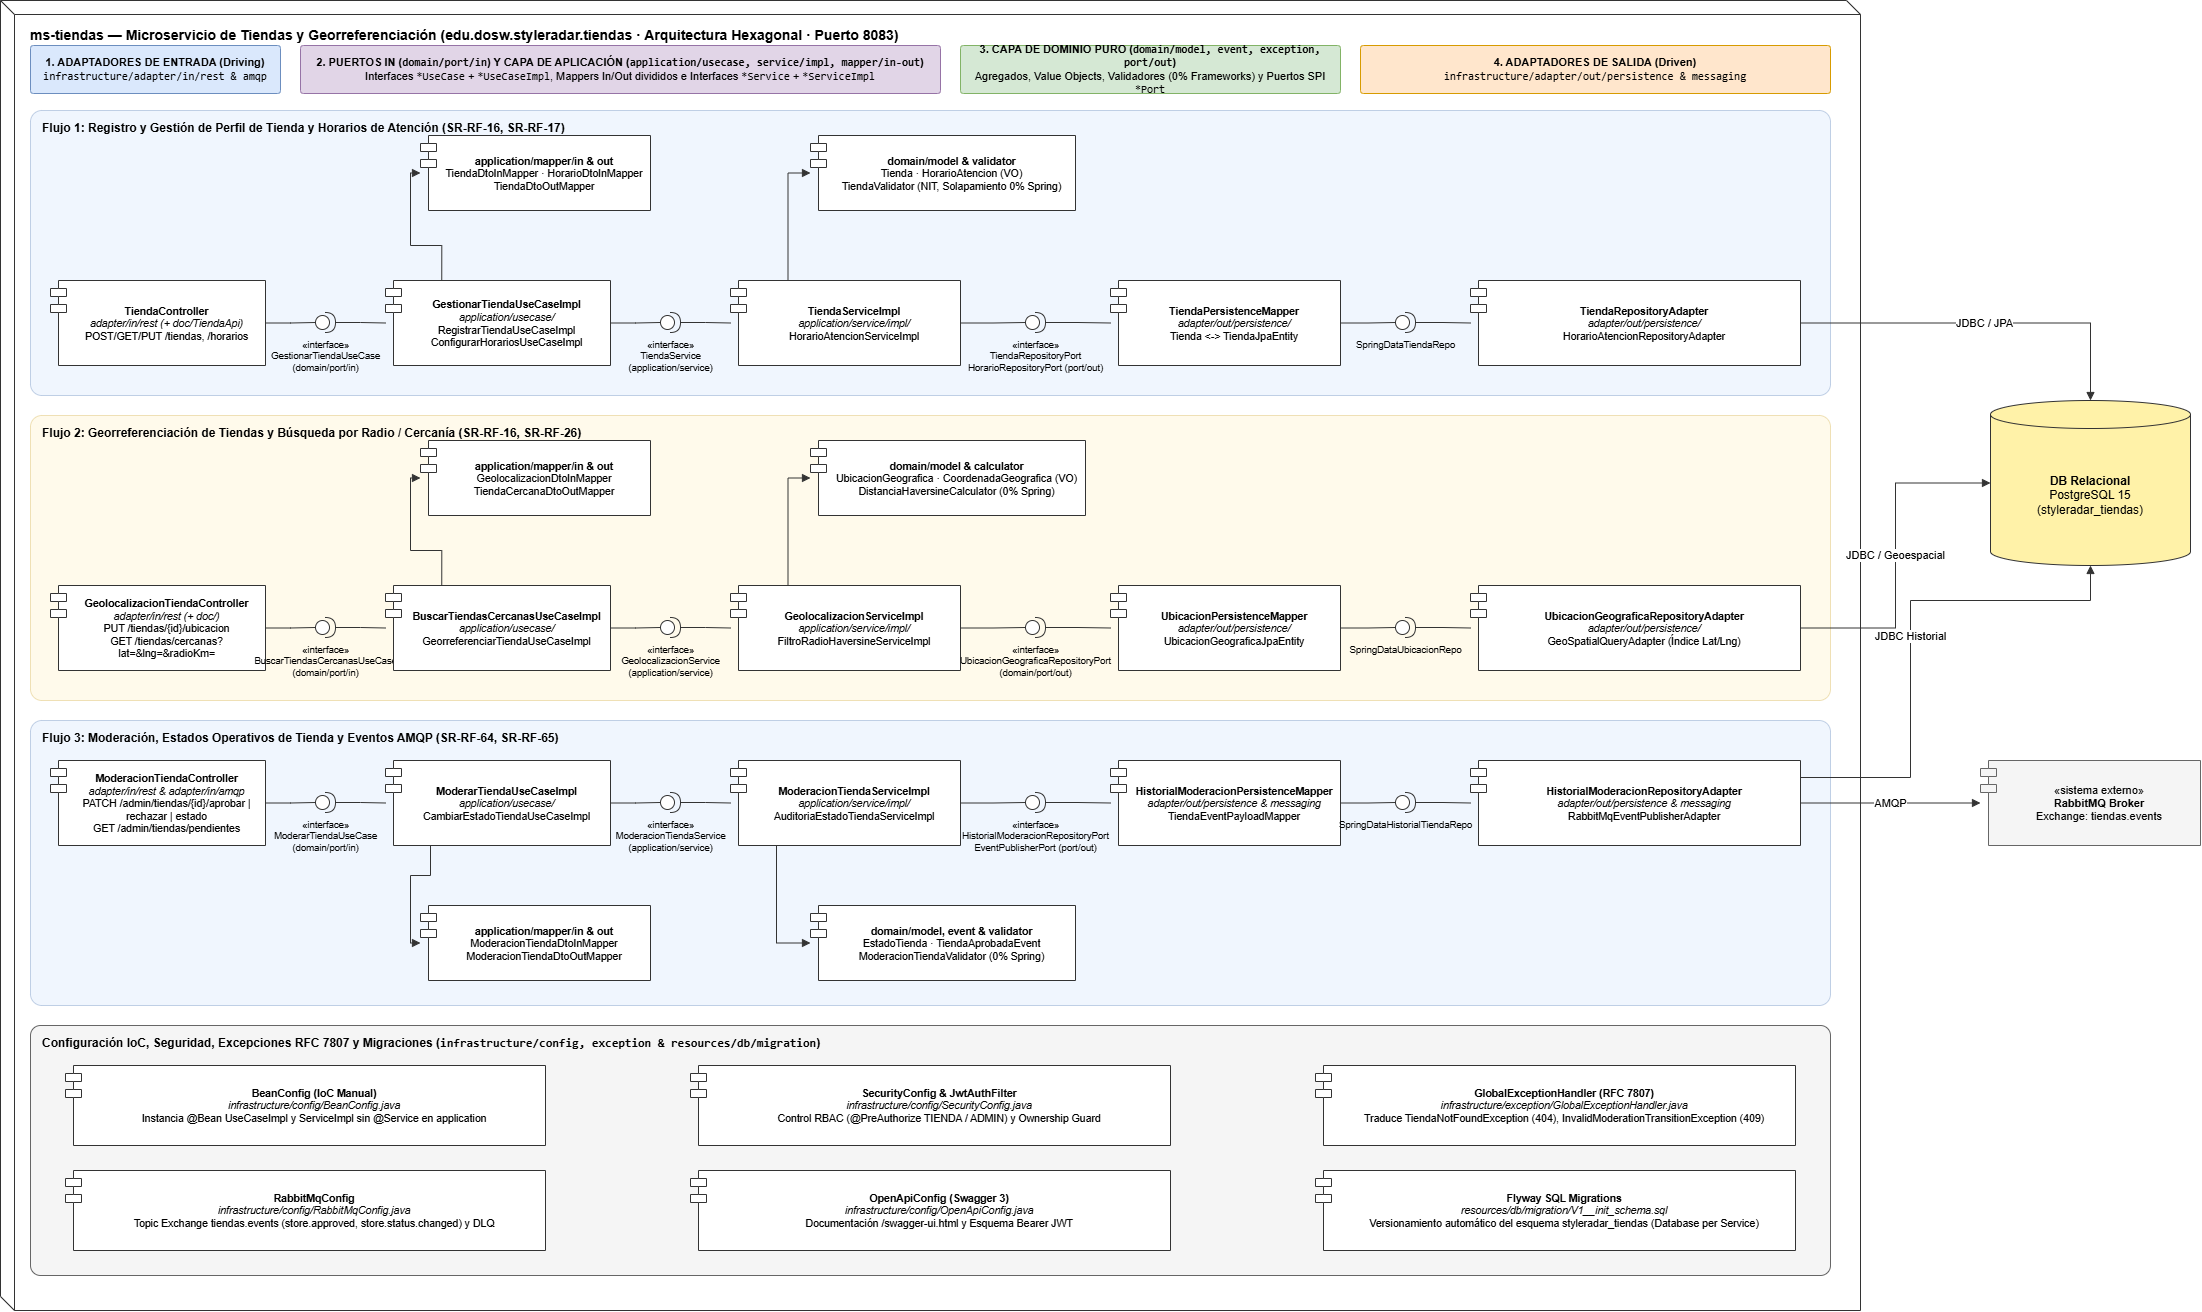
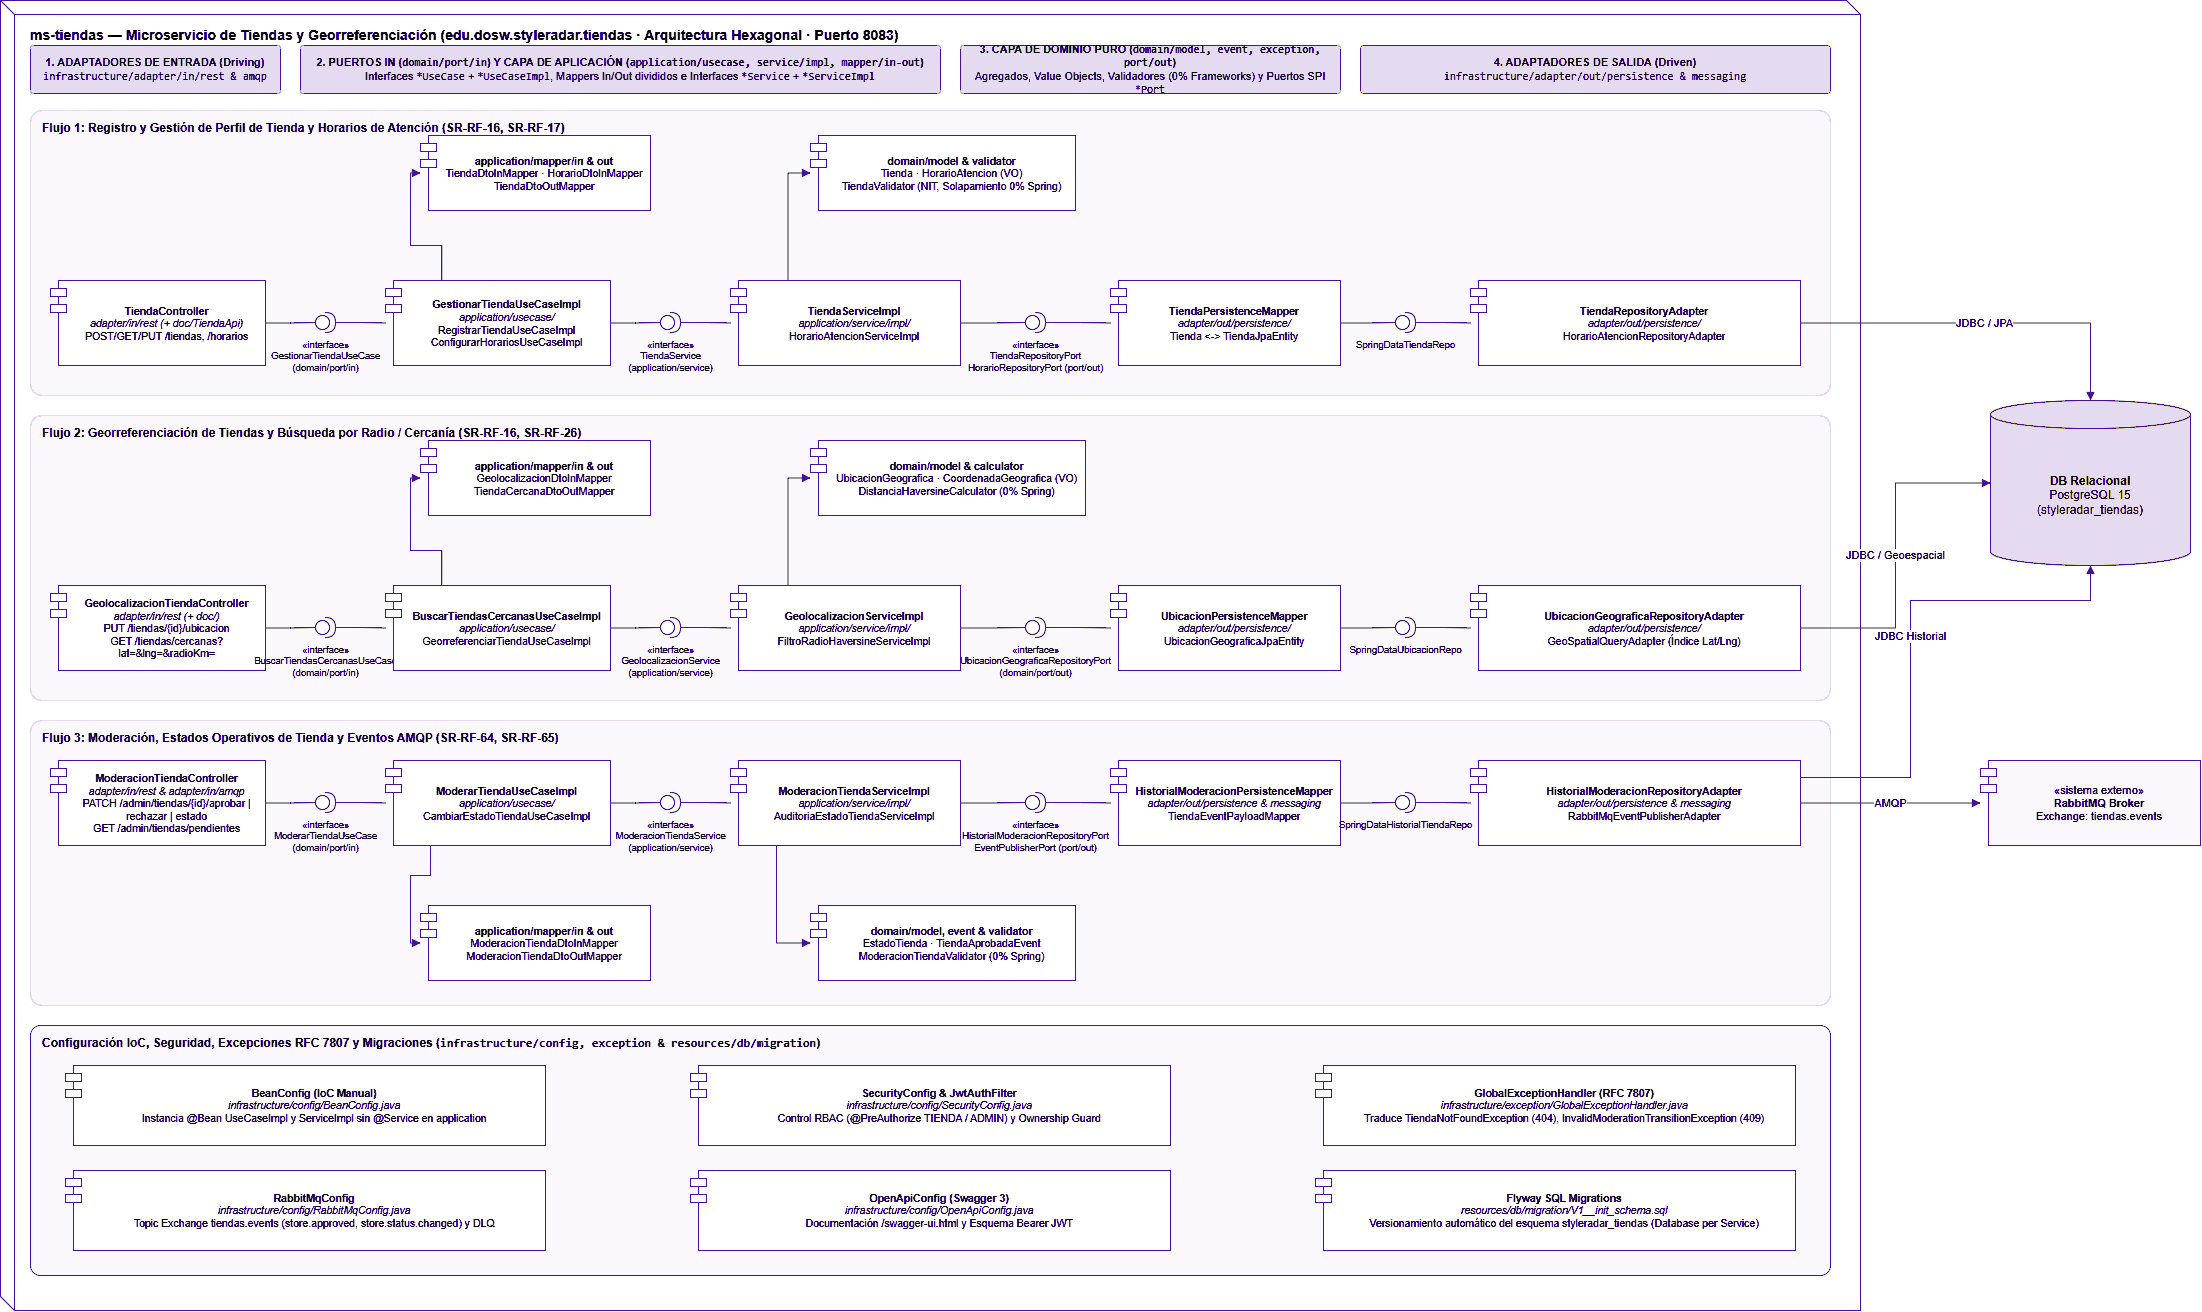
docs(uml): actualizar DiagramaComponentesEspecifico a hexagonal real y paleta EstiloDiagramas

diff --git a/README.md b/README.md
@@ -337,38 +337,68 @@ El microservicio `ms-tiendas` se apoya exclusivamente en un modelo relacional ro
 
 <div align="center">
   <img src="docs/uml/DiagramaComponentesEspecifico.png" width="95%" alt="Diagrama de Componentes Específico ms-tiendas" /><br />
-  <sub>Figura 7.3: Diagrama de componentes específico en arquitectura hexagonal para ms-tiendas (Draw.io editable en <a href="docs/uml/DiagramaComponentesEspecifico.drawio"><code>docs/uml/DiagramaComponentesEspecifico.drawio</code></a>).</sub>
+  <sub>Figura 7.3: Diagrama de componentes específico en arquitectura hexagonal pura para ms-tiendas bajo el estándar corporativo <code>EstiloDiagramas.xml</code> (Draw.io editable en <a href="docs/uml/DiagramaComponentesEspecifico.drawio"><code>docs/uml/DiagramaComponentesEspecifico.drawio</code></a>).</sub>
 </div>
 
 ##### Justificación del Enfoque Hexagonal (Puertos y Adaptadores)
-`ms-tiendas` sigue de forma irrestricta la separación por capas hexagonal:
-- **Aislamiento de Lógica Geoespacial**: Las fórmulas de distancia y validaciones de solapamiento de horarios residen en `domain/model/` y `domain/validator/`. Ninguna fórmula matemática ni lógica de negocio depende de PostGIS ni de repositorios SQL.
-- **Independencia de Frameworks en Aplicación**: Los casos de uso (`*UseCaseImpl`) y servicios de aplicación (`*ServiceImpl`) se cablean mediante inyección manual en `BeanConfig.java`, garantizando portabilidad absoluta y tests unitarios ultra-rápidos.
-- **Event-Driven Integration**: Las decisiones de moderación aprobadas disparan eventos asíncronos hacia RabbitMQ para notificar a los microservicios de catálogos y compras sin acoplamiento temporal ni llamadas REST síncronas bloqueantes.
+`ms-tiendas` implementa de forma estricta los principios de **Arquitectura Hexagonal (Puertos y Adaptadores)** y **Domain-Driven Design (DDD)** sobre lo que realmente se codificó en el repositorio:
+- **Inversión de Control Manual (0% Spring en Dominio y Casos de Uso)**: Los 9 casos de uso (`*UseCaseImpl`) implementan interfaces de puerto de entrada (`domain/port/in/`) y se cablean explícitamente mediante métodos `@Bean` en `BeanConfig.java`. No existe ninguna anotación `@Service` ni acoplamiento a frameworks en el núcleo de la aplicación.
+- **Aislamiento de Persistencia Relacional y Almacenamiento**: Las operaciones sobre PostgreSQL 16 (`AlmacenRepositoryPort`, `FundacionRepositoryPort`) y Azure Blob Storage (`AlmacenamientoBlobPort`) están desacopladas a través de puertos de salida (`domain/port/out/`).
+- **Seguridad BOLA/IDOR Integrada en la Capa REST**: El control de acceso valida que el identificador `usuarioId` firmado en el JWT coincida con el vínculo registrado para dicho NIT en `administradores_almacenes`, rechazando con `403 Forbidden` cualquier intento de mutación no autorizada (SR-RNF-01).
+- **Event-Driven Architecture Asíncrona**: La desactivación de fundaciones y transiciones de verificación publican eventos estructurados hacia RabbitMQ (`styleradar.fundaciones.exchange`), desacoplando temporalmente el flujo de `ms-segunda-vida-donaciones` y `ms-catalogo`.
 
-##### Explicación Detallada de los Flujos de Componentes
-1. **Flujo 1: Registro y Gestión de Perfil de Tienda y Horarios (SR-RF-16, SR-RF-17)**:
-   - **Entrada (Driving)**: `TiendaController` (`adapter/in/rest/`) implementa `TiendaApi` y gestiona las solicitudes de registro de comercio y horarios.
-   - **Puerto In y Aplicación**: Conexión a `GestionarTiendaUseCase` ejecutado por `GestionarTiendaUseCaseImpl`, apoyado en `TiendaDtoInMapper`, `HorarioDtoInMapper` y `TiendaDtoOutMapper`.
-   - **Servicio y Dominio**: `TiendaServiceImpl` y `HorarioAtencionServiceImpl` operan sobre el agregado `Tienda`, el Value Object `HorarioAtencion` y el validador puro `TiendaValidator` (0% Spring).
-   - **Salida**: `TiendaPersistenceMapper` y `TiendaRepositoryAdapter` persisten el agregado mediante `SpringDataTiendaRepo` en PostgreSQL 15.
-2. **Flujo 2: Georreferenciación de Tiendas y Búsqueda por Radio / Cercanía (SR-RF-16, SR-RF-26)**:
-   - **Entrada**: `GeolocalizacionTiendaController` expone `PUT /tiendas/{id}/ubicacion` y `GET /tiendas/cercanas?lat=&lng=&radioKm=`.
-   - **Puerto In y Aplicación**: Invoca `BuscarTiendasCercanasUseCase` implementado en `BuscarTiendasCercanasUseCaseImpl`, coordinado con `GeolocalizacionDtoInMapper` y `TiendaCercanaDtoOutMapper`.
-   - **Servicio y Dominio**: `GeolocalizacionServiceImpl` utiliza el modelo `UbicacionGeografica`, el Value Object `CoordenadaGeografica` y el calculador de semiverseno `DistanciaHaversineCalculator`.
-   - **Salida**: `UbicacionPersistenceMapper` y `UbicacionGeograficaRepositoryAdapter` aprovechan el índice de coordenadas de PostgreSQL para acotar candidatos y retornar tiendas dentro del radio configurado.
-3. **Flujo 3: Moderación, Estados Operativos de Tienda y Eventos AMQP (SR-RF-64, SR-RF-65)**:
-   - **Entrada**: `ModeracionTiendaController` (`adapter/in/rest/`) expone los endpoints de revisión para administradores (`PATCH /admin/tiendas/{id}/aprobar`, `/rechazar`).
-   - **Puerto In y Aplicación**: Conexión a `ModerarTiendaUseCase` y ejecución en `ModerarTiendaUseCaseImpl`, asistido por `ModeracionTiendaDtoInMapper` y `ModeracionTiendaDtoOutMapper`.
-   - **Servicio y Dominio**: `ModeracionTiendaServiceImpl` valida las transiciones mediante `ModeracionTiendaValidator` e instancia el evento de integración `TiendaAprobadaEvent`.
-   - **Salida**: `HistorialModeracionPersistenceMapper` persiste el veredicto en PostgreSQL a través de `HistorialModeracionRepositoryAdapter`, y `RabbitMqEventPublisherAdapter` publica el mensaje al Topic Exchange `tiendas.events` (`store.approved`).
-4. **Banda Transversal de Infraestructura**:
-   - `BeanConfig.java`: Cableado manual `@Bean` para use cases y servicios de aplicación.
-   - `SecurityConfig.java` & `JwtAuthFilter`: Control RBAC estricto (`@PreAuthorize("hasRole('ADMINISTRADOR')")` o rol `TIENDA` con verificación de ownership de la tienda consultada).
-   - `GlobalExceptionHandler.java`: Normalización de errores de negocio (`TiendaNotFoundException`, `InvalidModerationTransitionException`) bajo estándar RFC 7807 Problem Details.
-   - `RabbitMqConfig.java`: Configuración del Topic Exchange `tiendas.events`, colas durables y cola DLQ.
-   - `OpenApiConfig.java`: Swagger 3 con esquemas de autenticación y documentación de endpoints.
-   - `Flyway SQL Migrations` (`V1__init_schema.sql`): Versionamiento automatizado del esquema relacional `styleradar_tiendas`.
+##### Explicación Detallada de los Flujos de Componentes Codificados
+
+###### 1. Flujo 1: Gestión de Almacenes Aliados, Catálogo, Vitrina y Georreferenciación Haversine (SR-RF-59, SR-RF-60, SR-RF-64, SR-RF-74)
+- **Adaptador de Entrada (Driving)**: `AlmacenController` (`adapter/in/rest/`) expone los endpoints `/api/v1/almacenes` para registro, consulta por NIT, búsqueda geoespacial por radio Haversine, carga multipart de fotos y configuración de catálogo.
+- **Puertos In & Casos de Uso (Aplicación)**:
+  - Puertos: `RegistrarFotografiaTiendaUseCase`, `ConfigurarUmbralUltimasUnidadesUseCase`, `ConsultarUmbralUltimasUnidadesUseCase`, `ConfigurarPeriodoNuevaLlegadaUseCase`, `ConsultarPeriodoNuevaLlegadaUseCase`.
+  - Implementaciones: `RegistrarFotografiaTiendaUseCaseImpl`, `ConfigurarUmbralUltimasUnidadesUseCaseImpl`, `ConfigurarPeriodoNuevaLlegadaUseCaseImpl`.
+  - DTOs: `RegistrarAlmacenRequestDTO`, `ConfiguracionCatalogoAlmacenRequestDTO`, `AlmacenResponseDTO`, `FotografiaTiendaResponseDTO`.
+- **Núcleo de Dominio**:
+  - Agregado raíz `Almacen` (máx. 6 fotos de vitrina) y entidad `FotografiaTienda`.
+  - Value Objects inmutables: `UmbralUltimasUnidades` (`[0..50]`, default: 3) y `PeriodoNuevaLlegada` (`[1..60]`, default: 7).
+  - Cálculo Haversine esférico puro ($R = 6.371\text{ km}$) para filtrado espacial en Bogotá.
+- **Puertos Out & Adaptadores de Salida (Driven)**:
+  - Puertos: `AlmacenRepositoryPort` y `AlmacenamientoBlobPort`.
+  - Adaptadores: `AlmacenRepositoryAdapter` (PostgreSQL 16 con `SpringDataAlmacenRepository`, `SpringDataFotografiaTiendaRepository` y `AlmacenPersistenceMapper`) y `AzureBlobStorageAdapter` (almacenamiento binario HTTPS en Azure Blob Storage).
+
+###### 2. Flujo 2: Gestión Integral de Fundaciones Aliadas para Moda Circular (SR-RF-43, SR-RF-63, SR-RF-65)
+- **Adaptador de Entrada (Driving)**: `FundacionController` (`adapter/in/rest/`) expone `/api/v1/fundaciones` para registro institucional, actualización de sedes, listado paginado y desactivación lógica.
+- **Puertos In & Casos de Uso (Aplicación)**:
+  - Puertos: `RegistrarFundacionUseCase`, `EditarFundacionUseCase`, `DesactivarFundacionUseCase`.
+  - Implementaciones: `RegistrarFundacionUseCaseImpl`, `EditarFundacionUseCaseImpl`, `DesactivarFundacionUseCaseImpl`.
+  - DTOs: `FundacionRequestDTO`, `FundacionResponseDTO`, `PageResponseDTO`.
+- **Núcleo de Dominio**:
+  - Agregado raíz `Fundacion` con validaciones de latitud/longitud, personería jurídica obligatoria y categorías de prenda aceptadas (`TipoPrenda`).
+  - Evento de integración: `FundacionDesactivadaEvent`.
+- **Puertos Out & Adaptadores de Salida (Driven)**:
+  - Puertos: `FundacionRepositoryPort`, `FundacionEventPublisherPort` y `AlmacenamientoBlobPort`.
+  - Adaptadores: `FundacionRepositoryAdapter` (`SpringDataFundacionRepository`, `FundacionPersistenceMapper`) y `RabbitMQFundacionEventPublisherAdapter` (Topic Exchange `styleradar.fundaciones.exchange` con routing key `fundacion.desactivada`).
+
+###### 3. Flujo 3: Moderación Administrativa, Verificación DIAN y Seguridad BOLA/IDOR (SR-RF-62, SR-RNF-01)
+- **Adaptadores de Entrada (Driving)**:
+  - `VerificacionAlmacenController`: `POST /api/v1/almacenes/{nit}/verificacion` (decisión de aprobación o rechazo por Tech Lead / Admin StyleRadar).
+  - `AsociacionAdministradorAlmacenController`: `POST /api/v1/almacenes/{nit}/administradores` (vinculación de administradores delegados).
+- **Puertos In & Casos de Uso (Aplicación)**:
+  - Puerto: `VerificarAlmacenUseCase`.
+  - Implementación: `VerificarAlmacenUseCaseImpl`.
+  - DTOs: `DecisionVerificacionRequestDTO`, `VerificacionAlmacenResponseDTO`, `AdministradorAlmacenResponseDTO`.
+- **Núcleo de Dominio**:
+  - Enums: `EstadoVerificacionAlmacen` (`PENDIENTE`, `APROBADO`, `RECHAZADO`) y `DecisionVerificacionAlmacen`.
+  - Validadores: `AutorizacionAlmacenValidator` (mitigación BOLA/IDOR) y `AutorizacionAdminStyleRadarValidator`.
+  - Invariantes: Exigencia de RUT en PDF para aprobación (`RutRequeridoParaAprobacionException`) y motivo obligatorio para rechazo.
+- **Puertos Out & Adaptadores de Salida (Driven)**:
+  - Puerto: `AlmacenRepositoryPort`.
+  - Adaptador: `AlmacenRepositoryAdapter` con `SpringDataAdministradorAlmacenRepository` y `AlmacenPersistenceMapper` garantizando persistencia relacional ACID y auditoría inmutable.
+
+###### 4. Banda Transversal de Infraestructura
+- **`BeanConfig.java` (`infrastructure/config/`)**: Cableado manual IoC `@Bean` para los 9 casos de uso sin anotaciones de Spring en capas internas.
+- **`SecurityConfig.java` & `JwtAuthFilter`**: Filtro de seguridad JWT con validación de roles (`ADMIN_STYLERADAR`, `ADMIN_ALMACEN`) y mitigación BOLA (SR-RNF-01).
+- **`GlobalExceptionHandler.java`**: Manejador centralizado que serializa excepciones de negocio en respuestas estandarizadas RFC 7807 (`application/problem+json`).
+- **`RabbitMqConfig.java`**: Declaración de `styleradar.fundaciones.exchange`, colas durables y Dead Letter Exchange (`styleradar.dlx`).
+- **`OpenApiConfig.java`**: Especificación OpenAPI 3.0 para los 18 endpoints del microservicio en el puerto oficial `:8140`.
+- **`Flyway SQL Migrations` (`resources/db/migration/V1..V4`)**: Migraciones DDL/DML automatizadas para PostgreSQL 16 (`styleradar_tiendas`).
 
 ### Estructura Oficial de Paquetes en `src/main/java/`
 
